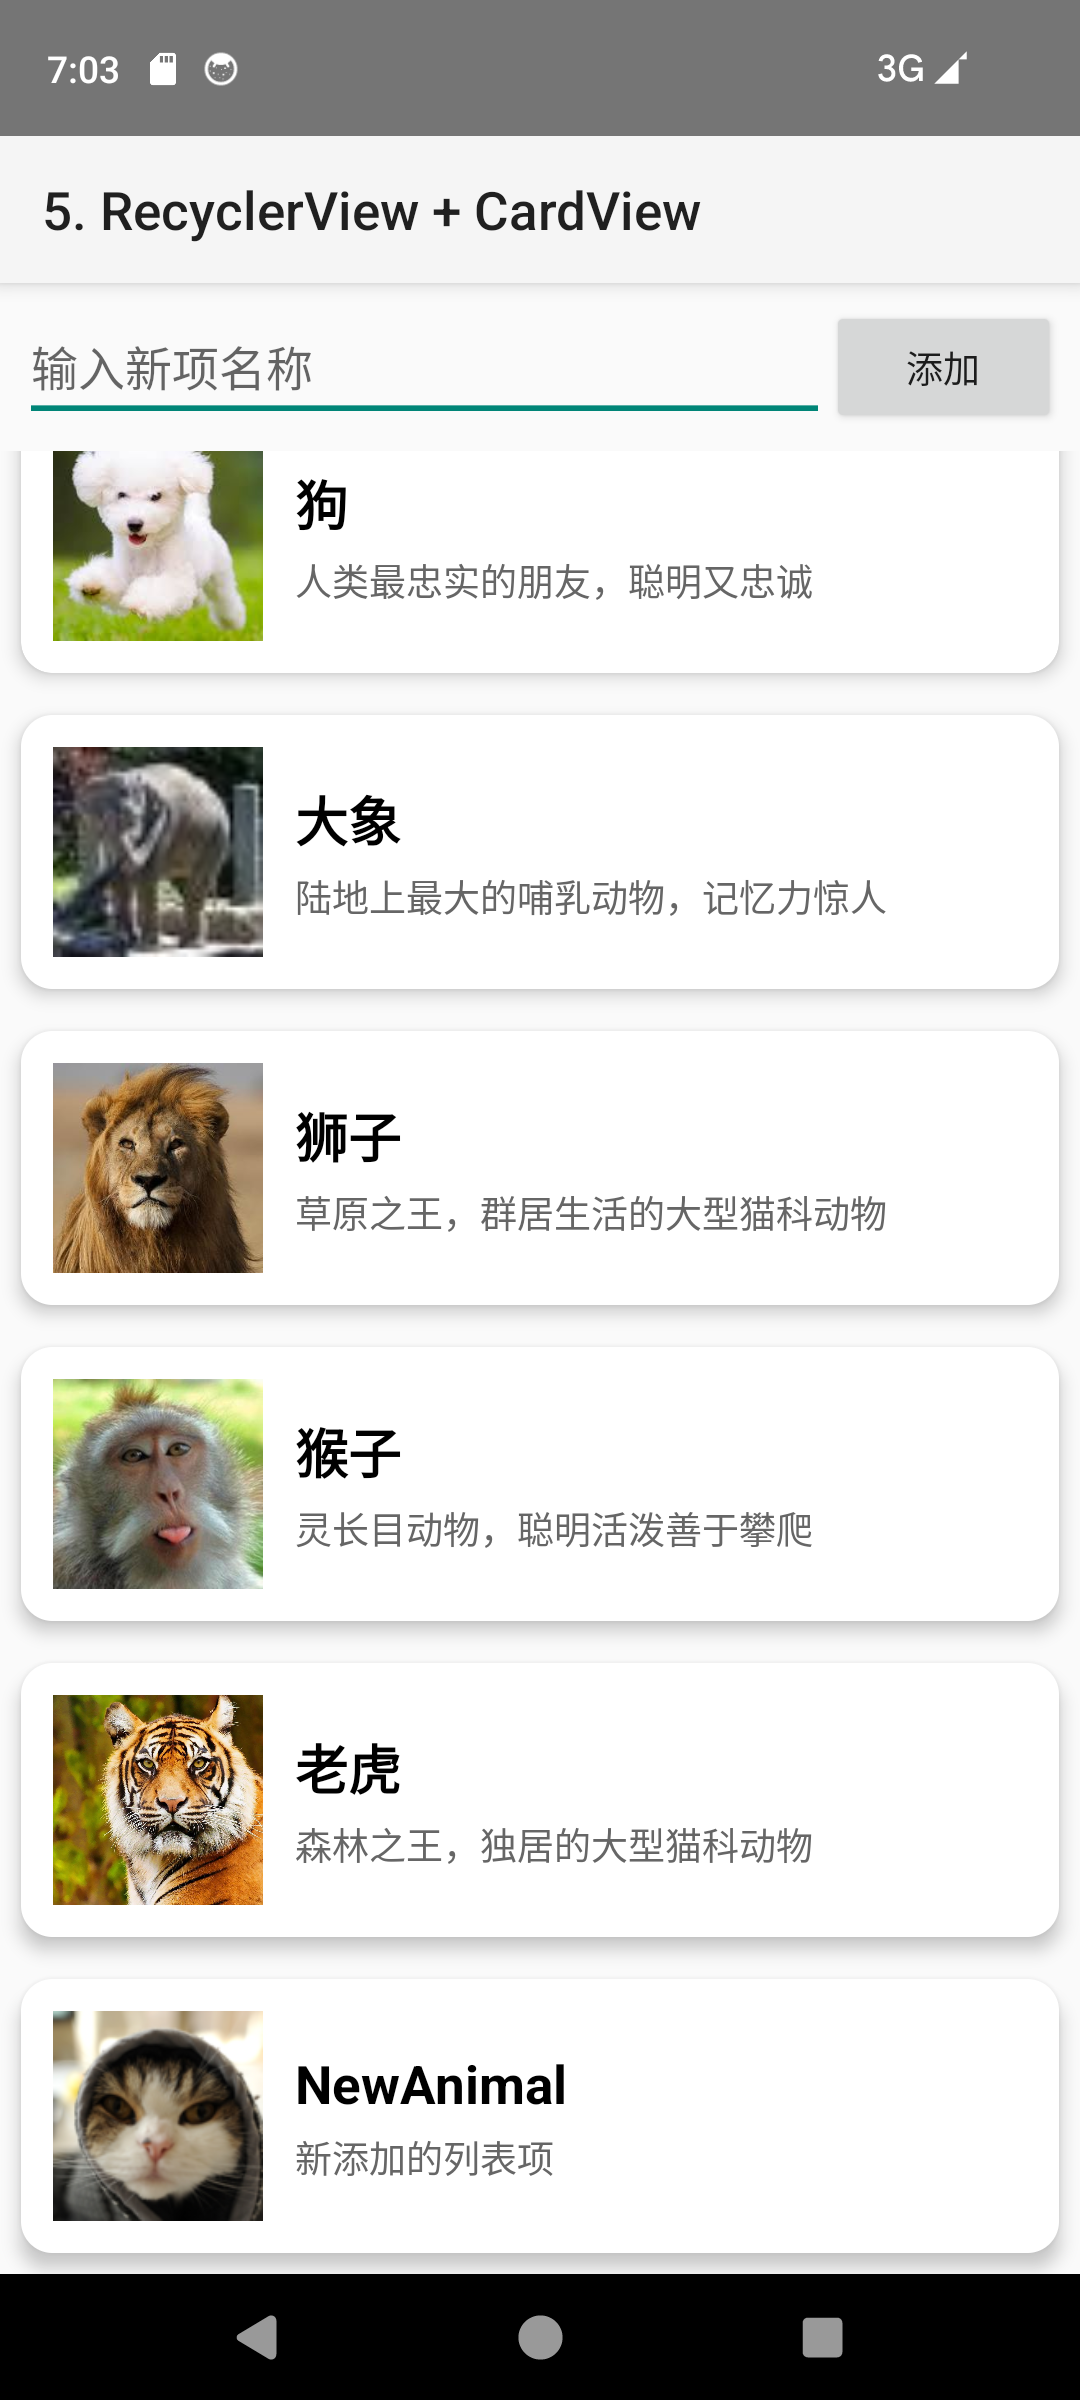
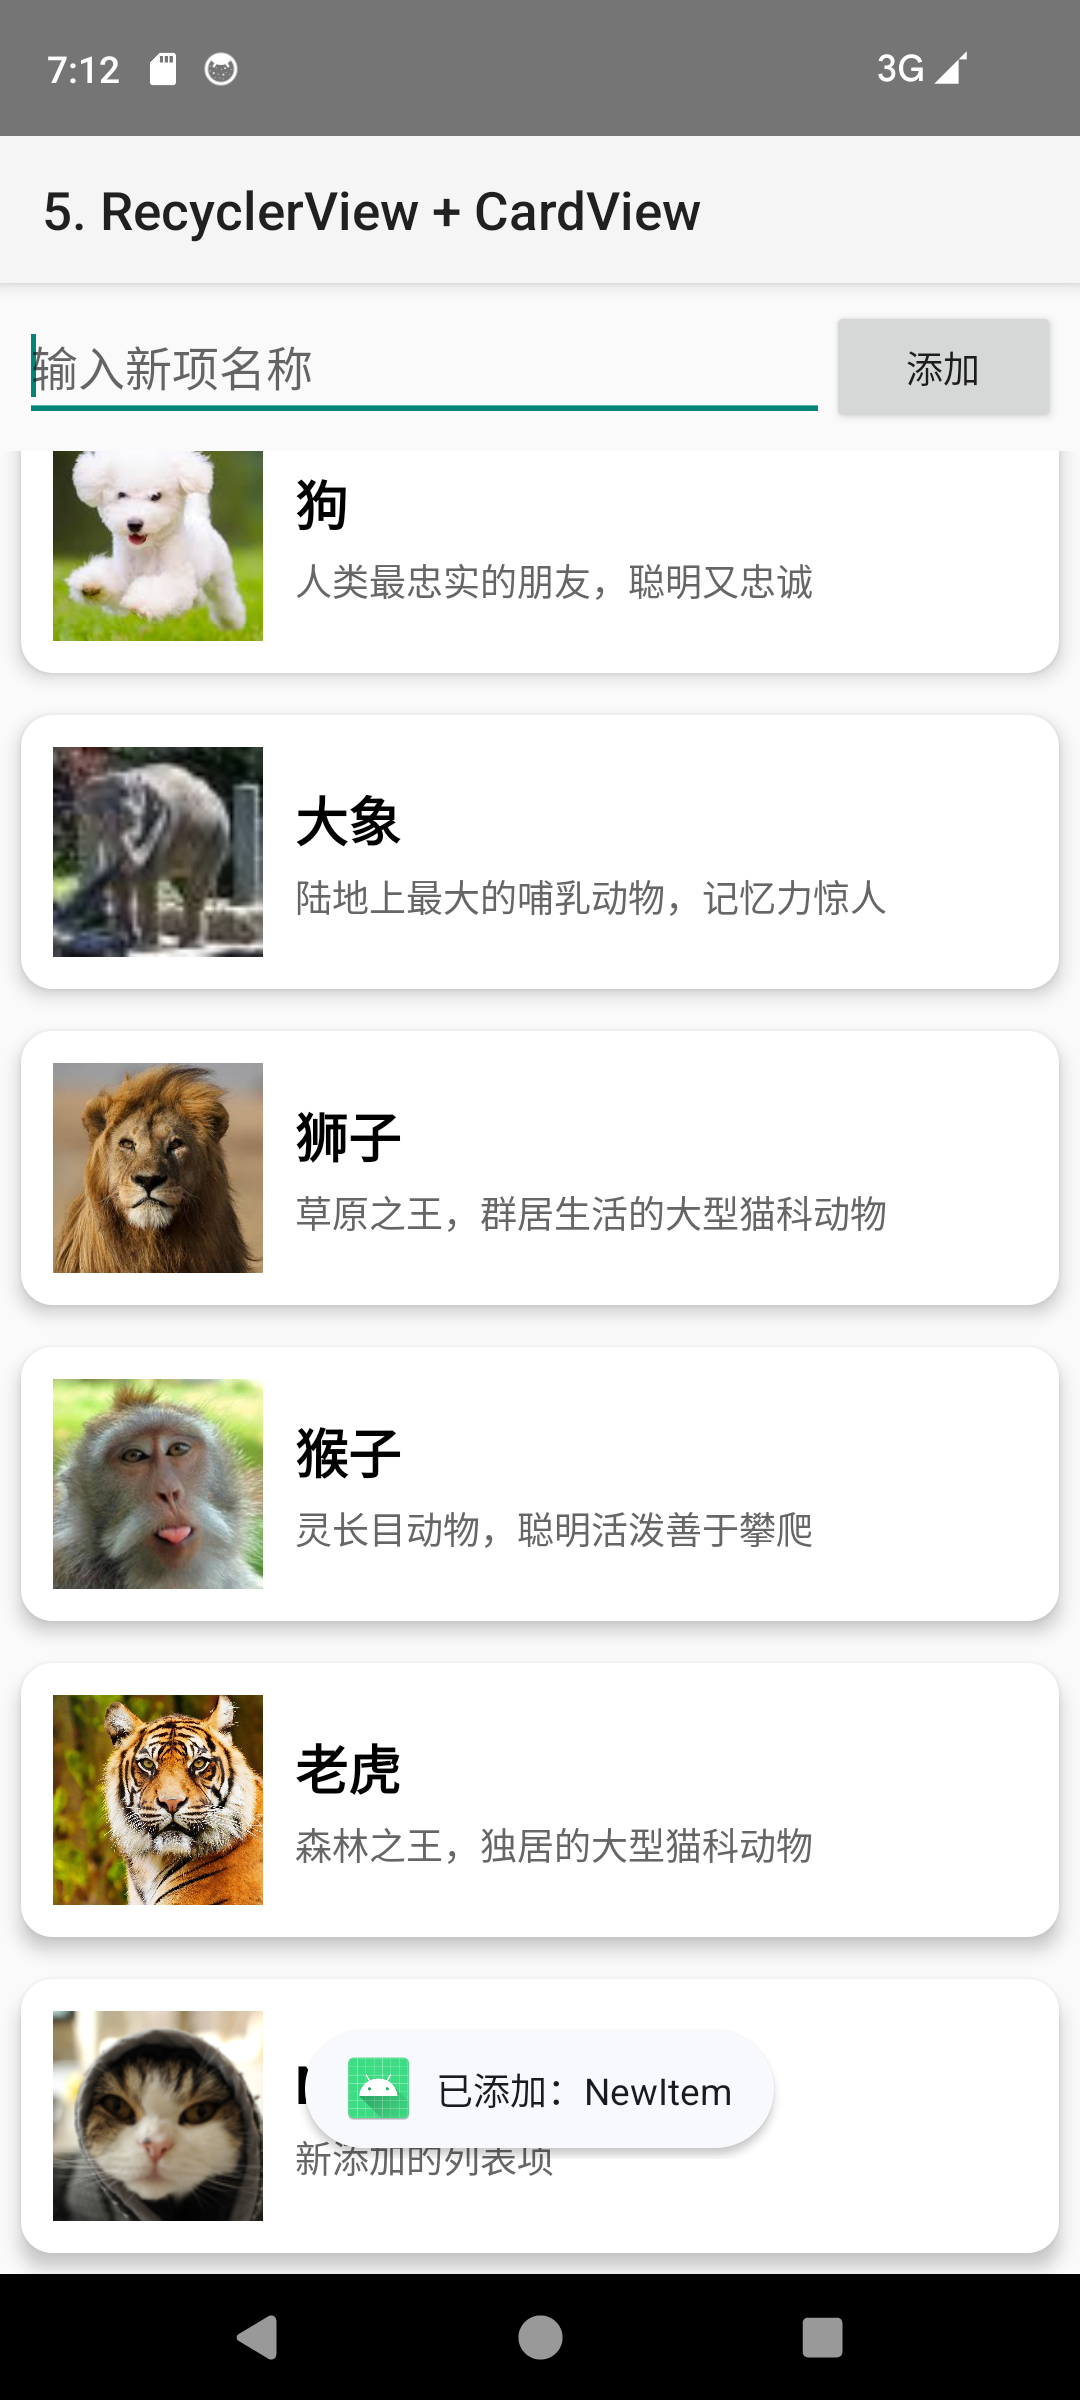
fix: ActionMode点击多选(无需长按)+RecyclerView添加后自动滚动

Changed region(s): [[0.275, 0.8438, 0.7028, 0.9062], [0.0611, 0.0, 0.0917, 0.0312]]

diff --git a/app/src/main/java/com/example/test/ActionModeActivity.kt b/app/src/main/java/com/example/test/ActionModeActivity.kt
@@ -3,17 +3,24 @@ package com.example.test
 import android.app.Activity
 import android.os.Bundle
 import android.view.ActionMode
+import android.view.LayoutInflater
 import android.view.Menu
 import android.view.MenuItem
-import android.widget.AbsListView
-import android.widget.ArrayAdapter
+import android.view.View
+import android.view.ViewGroup
+import android.widget.BaseAdapter
+import android.widget.ImageView
 import android.widget.ListView
+import android.widget.TextView
 import android.widget.Toast
 
 class ActionModeActivity : Activity() {
 
     private val items = arrayListOf("One", "Two", "Three", "Four", "Five")
-    private lateinit var adapter: ArrayAdapter<String>
+    // 记录选中的位置
+    private val selectedPositions = HashSet<Int>()
+    private var actionMode: ActionMode? = null
+    private lateinit var adapter: SelectableAdapter
 
     override fun onCreate(savedInstanceState: Bundle?) {
         super.onCreate(savedInstanceState)
@@ -21,55 +28,89 @@ class ActionModeActivity : Activity() {
         actionBar?.title = "4. ActionMode"
 
         val listView = findViewById<ListView>(R.id.listView)
-        adapter = ArrayAdapter(this, R.layout.item_action_mode, android.R.id.text1, items)
+        adapter = SelectableAdapter()
         listView.adapter = adapter
 
-        // 设置多选模式监听器（ActionMode）
-        listView.setMultiChoiceModeListener(object : AbsListView.MultiChoiceModeListener {
-            override fun onItemCheckedStateChanged(
-                mode: ActionMode,
-                position: Int,
-                id: Long,
-                checked: Boolean
-            ) {
-                val count = listView.checkedItemCount
-                mode.title = "$count selected"
-            }
+        listView.setOnItemClickListener { _, _, position, _ ->
+            toggleSelection(position)
+        }
+    }
 
-            override fun onCreateActionMode(mode: ActionMode, menu: Menu): Boolean {
-                menuInflater.inflate(R.menu.menu_action_mode, menu)
-                return true
-            }
+    private fun toggleSelection(position: Int) {
+        if (selectedPositions.contains(position)) {
+            selectedPositions.remove(position)
+        } else {
+            selectedPositions.add(position)
+        }
 
-            override fun onPrepareActionMode(mode: ActionMode, menu: Menu): Boolean {
-                return false
-            }
+        if (selectedPositions.isNotEmpty() && actionMode == null) {
+            actionMode = startActionMode(actionModeCallback)
+        }
+        actionMode?.title = "${selectedPositions.size} selected"
 
-            override fun onActionItemClicked(mode: ActionMode, item: MenuItem): Boolean {
-                val checkedPositions = listView.checkedItemPositions
-                when (item.itemId) {
-                    R.id.action_delete -> {
-                        // 从后往前删除，避免索引错乱
-                        for (i in items.size - 1 downTo 0) {
-                            if (checkedPositions.get(i)) {
-                                items.removeAt(i)
-                            }
-                        }
-                        adapter.notifyDataSetChanged()
-                        Toast.makeText(this@ActionModeActivity, "已删除选中项", Toast.LENGTH_SHORT).show()
-                        mode.finish()
-                        return true
+        if (selectedPositions.isEmpty()) {
+            actionMode?.finish()
+        }
+        adapter.notifyDataSetChanged()
+    }
+
+    private val actionModeCallback = object : ActionMode.Callback {
+        override fun onCreateActionMode(mode: ActionMode, menu: Menu): Boolean {
+            menuInflater.inflate(R.menu.menu_action_mode, menu)
+            return true
+        }
+
+        override fun onPrepareActionMode(mode: ActionMode, menu: Menu): Boolean = false
+
+        override fun onActionItemClicked(mode: ActionMode, item: MenuItem): Boolean {
+            when (item.itemId) {
+                R.id.action_delete -> {
+                    // 从后往前删除
+                    val sorted = selectedPositions.sortedDescending()
+                    for (pos in sorted) {
+                        items.removeAt(pos)
                     }
-                    R.id.action_share -> {
-                        Toast.makeText(this@ActionModeActivity, "分享选中项", Toast.LENGTH_SHORT).show()
-                        mode.finish()
-                        return true
-                    }
+                    selectedPositions.clear()
+                    adapter.notifyDataSetChanged()
+                    Toast.makeText(this@ActionModeActivity, "已删除选中项", Toast.LENGTH_SHORT).show()
+                    mode.finish()
+                    return true
                 }
-                return false
+                R.id.action_share -> {
+                    Toast.makeText(this@ActionModeActivity, "分享选中项", Toast.LENGTH_SHORT).show()
+                    mode.finish()
+                    return true
+                }
             }
+            return false
+        }
 
-            override fun onDestroyActionMode(mode: ActionMode) {}
-        })
+        override fun onDestroyActionMode(mode: ActionMode) {
+            selectedPositions.clear()
+            adapter.notifyDataSetChanged()
+            actionMode = null
+        }
+    }
+
+    inner class SelectableAdapter : BaseAdapter() {
+        override fun getCount() = items.size
+        override fun getItem(position: Int) = items[position]
+        override fun getItemId(position: Int) = position.toLong()
+
+        override fun getView(position: Int, convertView: View?, parent: ViewGroup?): View {
+            val view = convertView ?: LayoutInflater.from(this@ActionModeActivity)
+                .inflate(R.layout.item_action_mode, parent, false)
+
+            view.findViewById<TextView>(android.R.id.text1).text = items[position]
+            view.findViewById<ImageView>(android.R.id.icon)?.setImageResource(android.R.drawable.sym_def_app_icon)
+
+            // 选中变蓝
+            if (selectedPositions.contains(position)) {
+                view.setBackgroundColor(android.graphics.Color.parseColor("#33B5E5"))
+            } else {
+                view.setBackgroundColor(android.graphics.Color.WHITE)
+            }
+            return view
+        }
     }
 }

diff --git a/app/src/main/java/com/example/test/RecyclerViewActivity.kt b/app/src/main/java/com/example/test/RecyclerViewActivity.kt
@@ -89,6 +89,8 @@ class RecyclerViewActivity : Activity() {
             val name = etNewItem.text.toString().trim()
             if (name.isNotEmpty()) {
                 adapter.addItem(AnimalCard(name, "新添加的列表项", R.drawable.cat))
+                // 立即滚动到新添加的项
+                recyclerView.scrollToPosition(adapter.itemCount - 1)
                 etNewItem.text.clear()
                 Toast.makeText(this, "已添加：$name", Toast.LENGTH_SHORT).show()
             } else {
